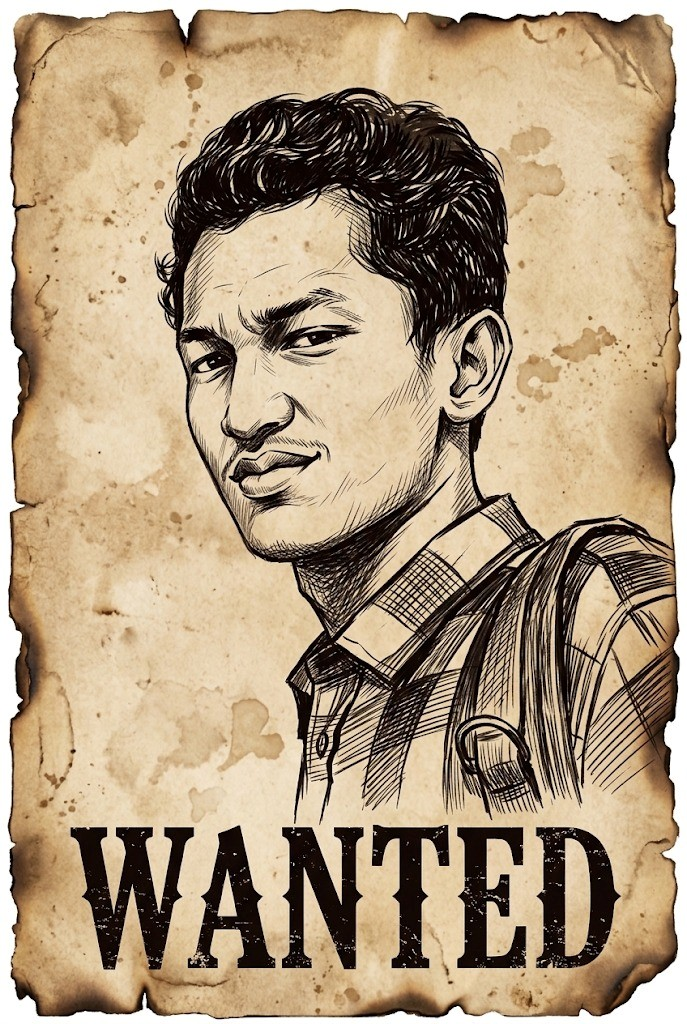
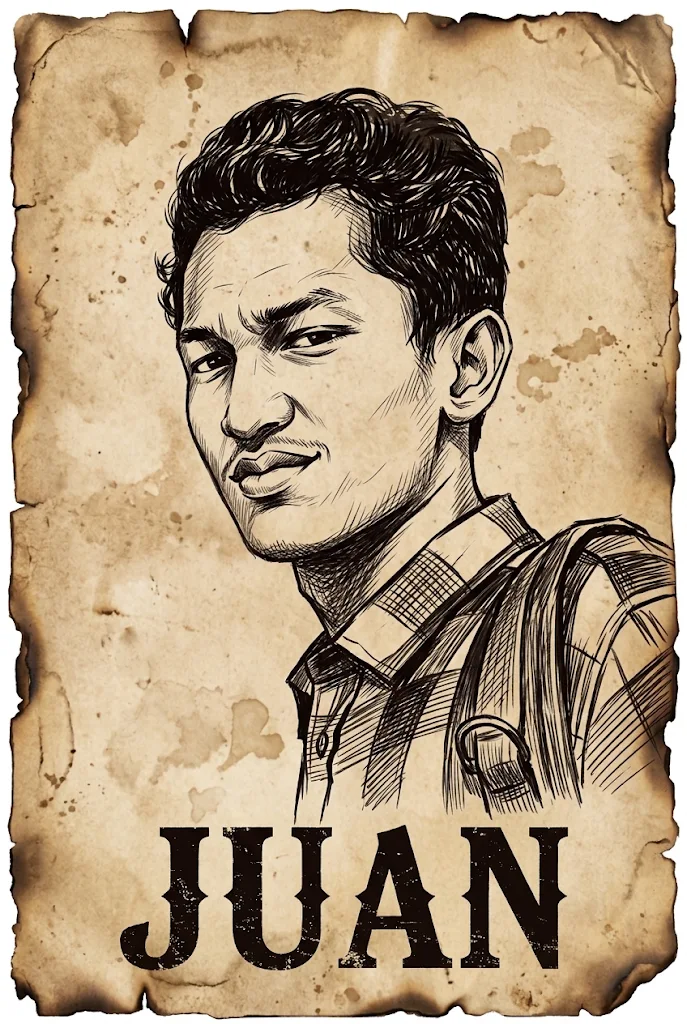
Update hero, swap members, and replace Juan poster

diff --git a/src/components/landing/HeroSection.jsx b/src/components/landing/HeroSection.jsx
@@ -1,49 +1,7 @@
-import React, { useState, useEffect } from 'react';
+import React from 'react';
 import { sound } from '../../services/audio.js';
 
 export function HeroSection({ onNavigate }) {
-  const [displayText, setDisplayText] = useState('');
-
-  useEffect(() => {
-    const phrases = [
-      'Finish On Time, No Remidi.',
-      'Tamat Tepat Waktu atau Game Over.',
-      'Geng Mahasiswa Pemburu Deadline.',
-      'Stage Clear: Wisuda Bersama.'
-    ];
-    let phraseIdx = 0;
-    let charIdx = 0;
-    let isDeleting = false;
-    let timeoutId;
-
-    const typeLoop = () => {
-      const current = phrases[phraseIdx];
-      if (isDeleting) {
-        charIdx--;
-      } else {
-        charIdx++;
-      }
-
-      setDisplayText(current.substring(0, charIdx));
-
-      let speed = isDeleting ? 40 : 80;
-
-      if (!isDeleting && charIdx === current.length) {
-        speed = 1800;
-        isDeleting = true;
-      } else if (isDeleting && charIdx === 0) {
-        isDeleting = false;
-        phraseIdx = (phraseIdx + 1) % phrases.length;
-        speed = 400;
-      }
-
-      timeoutId = setTimeout(typeLoop, speed);
-    };
-
-    typeLoop();
-    return () => clearTimeout(timeoutId);
-  }, []);
-
   const scrollToMembers = () => {
     sound.playClick();
     const el = document.getElementById('members');
@@ -69,16 +27,7 @@ export function HeroSection({ onNavigate }) {
 
       <div className="container hero-container-content">
         <div className="hero-content-frame">
-          <div className="hero-badge">
-            <span className="badge-retro badge-green">STATUS: AKTIF BERBURU TOGA</span>
-          </div>
           <h1 id="hero-heading" className="hero-title">TTW: TAMAT TEPAT WAKTU</h1>
-          <div id="hero-typewriter" className="hero-typewriter" aria-live="polite">
-            {displayText}
-          </div>
-          <p className="hero-desc">
-            Bukan sekadar kawan satu kampus, melainkan satu regu tempur menghadapi rimba tugas akhir, kuis dadakan, dan revisi skripsi tanpa ada kawan yang tertinggal di belakang.
-          </p>
           <div className="hero-actions">
             <button
               onClick={() => { sound.playCoin(); onNavigate('arcade'); }}

diff --git a/src/styles/landing.css b/src/styles/landing.css
@@ -133,29 +133,10 @@
   -webkit-backdrop-filter: blur(4px);
 }
 
-.hero-badge {
-  margin-bottom: 1.5rem;
-}
-
 .hero-title {
   color: var(--accent-coin);
-  margin-bottom: 1.25rem;
+  margin-bottom: 2rem;
   letter-spacing: 1px;
-}
-
-.hero-typewriter {
-  font-family: var(--font-retro);
-  font-size: clamp(1.4rem, 3.5vw, 2.2rem);
-  color: var(--accent-cyan);
-  min-height: 2.6rem;
-  margin-bottom: 1.5rem;
-}
-
-.hero-desc {
-  max-width: 650px;
-  margin: 0 auto 2.5rem;
-  color: var(--text-muted);
-  font-size: clamp(0.95rem, 1.8vw, 1.1rem);
 }
 
 .hero-actions {
